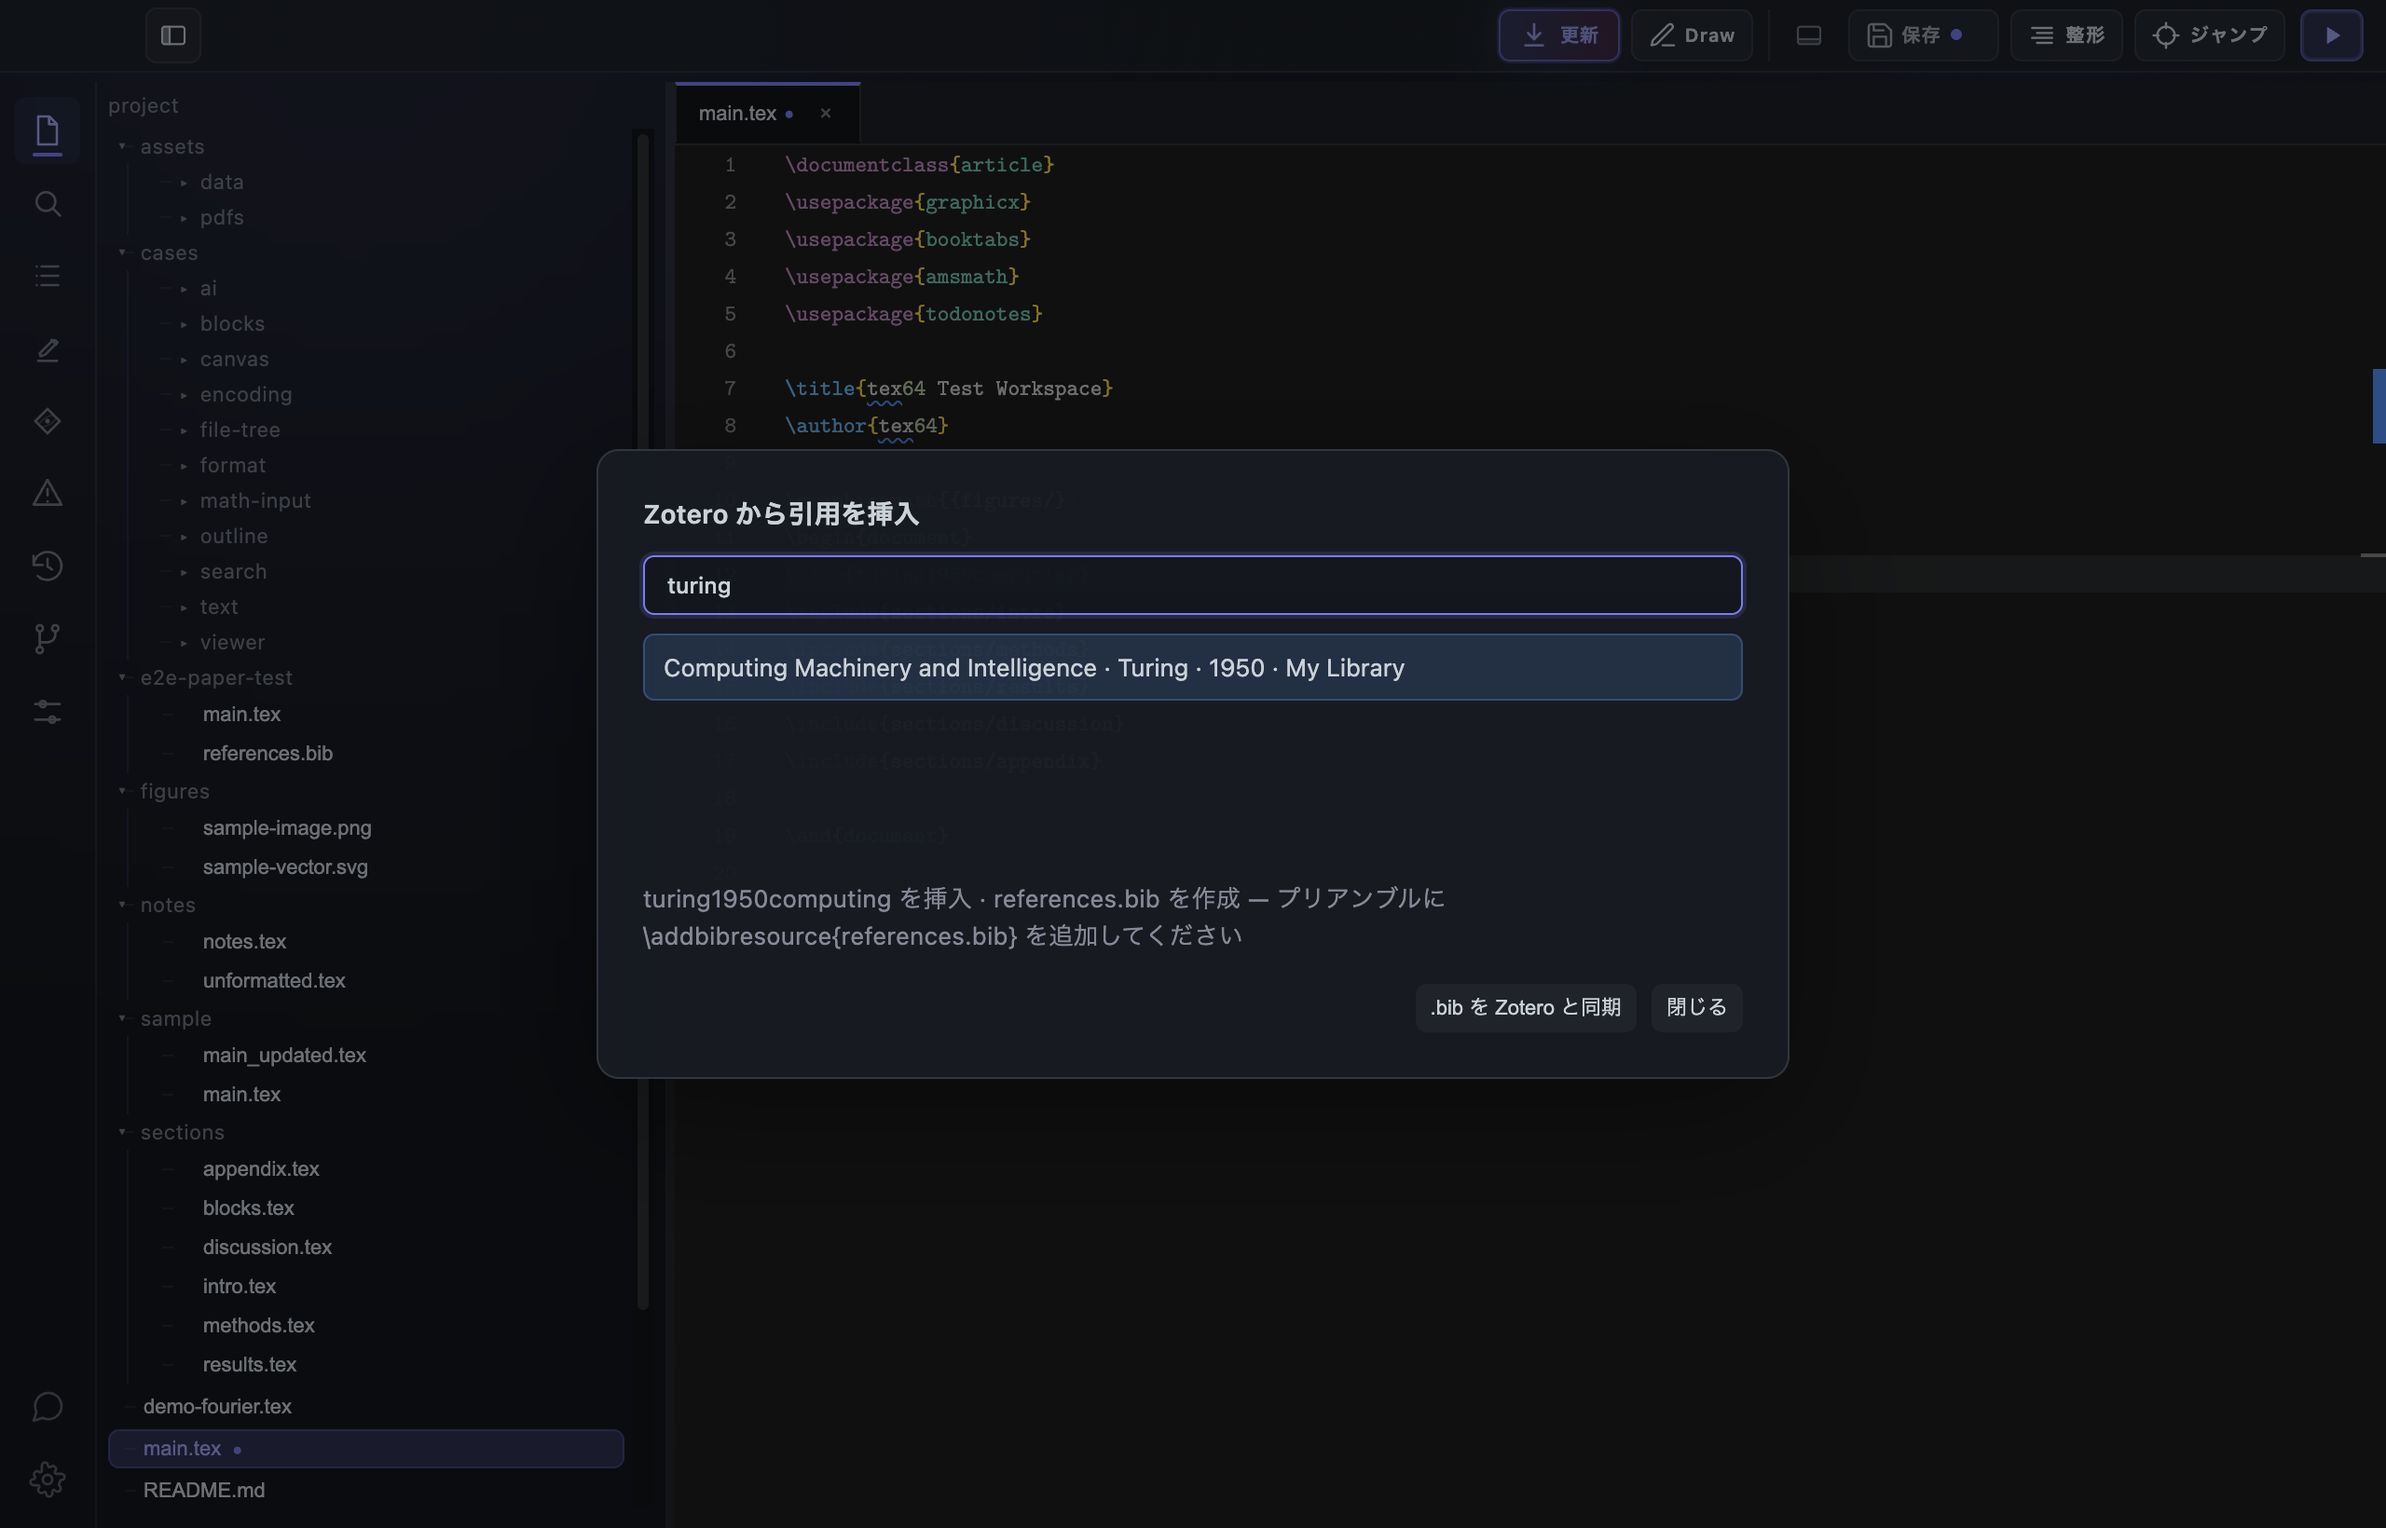
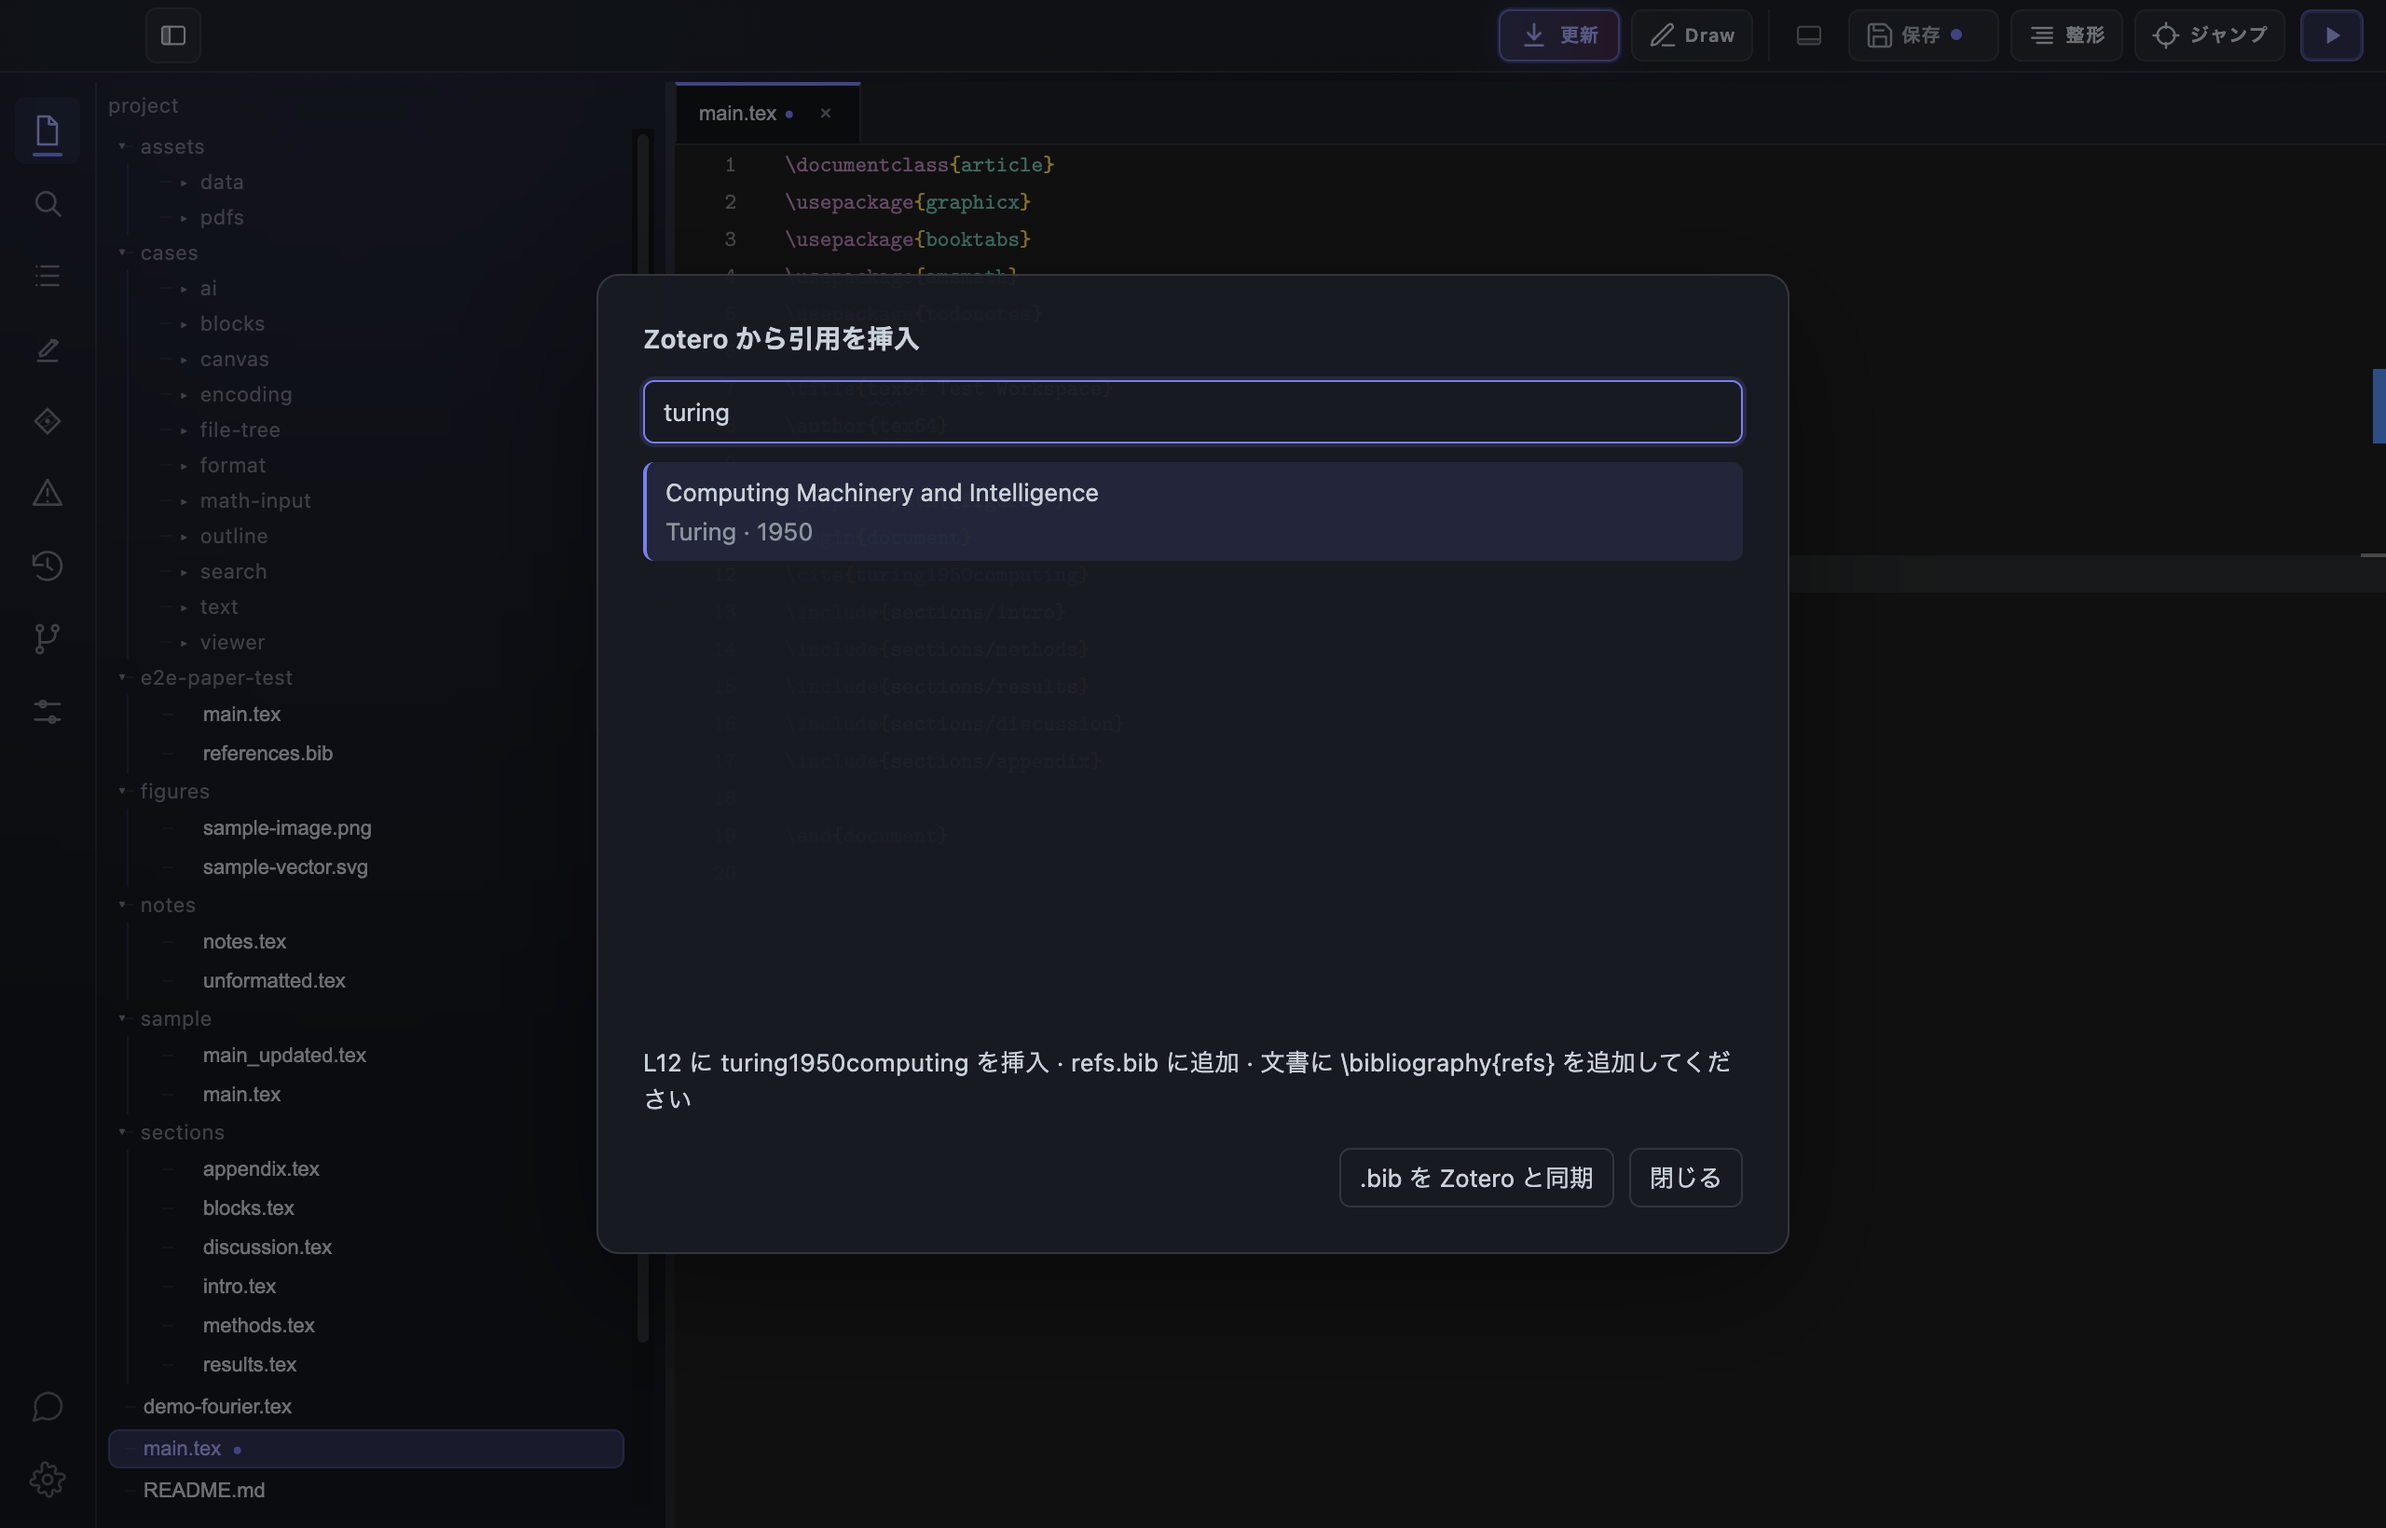
testing: zotero-20261031 を r1 反映後に撮り直す（偽ローカル API は citationKey を返さない）

diff --git a/testing/zotero-20261031/README.md b/testing/zotero-20261031/README.md
@@ -18,16 +18,17 @@ RUN_DIR=/tmp/zotero-run SHOTS_DIR=$PWD/testing/zotero-20261031/shots node testin
 
 手で触るときは `node testing/zotero-20261031/mock-zotero.cjs` を立てたまま `npx electron .` で開く。
 
-## 手順と結果（2026-10-31）
+## 手順と結果（2026-10-31、評価 r1 反映後）
 
 | # | 操作 | 結果 |
 | --- | --- | --- |
-| 1 | BBT あり。空行で右クリック →「Zotero から引用を挿入…」→ `turing` → Enter | `\cite{turing1950computing}` が入り、`main.tex` に `\bibliography` がないので `references.bib` を新規作成。ダイアログの 1 行に `\addbibresource{references.bib}` の追加を促す |
-| 2 | Settings → Zotero でライブラリを「Lab Group」に | 状態行が `Better BibTeX · Lab Group` |
-| 3 | `\cite{turing…}` の中にカーソルを置いて `attention` → Enter | `\cite{turing1950computing,vaswani2017attention}`（`,key` 追記） |
-| 4 | mock 側で Vaswani の題名を変えて「.bib を Zotero と同期」 | `references.bib: 更新 1 · 変更なし 1` |
-| 5 | BBT を閉じてローカル API のみ。Settings でグループを選び `hinton` を挿入 | `この PC の Zotero · Lab Group`。エントリの直前に `% zotero: groups:4242/HINTON2006` が付く |
-| 6 | Hinton を変えて同期 | `更新 1 · 変更なし 0 · Zotero 以外 2`（BBT 時代の 2 件は注記がないので対象外） |
-| 7 | 両方閉じる | `接続できません — Better BibTeX: 未起動 · ローカル API: Zotero の設定で無効 · Web API: API キー未設定` |
+| 1 | BBT あり。空行で右クリック →「Zotero から引用を挿入…」→ `turing` → Enter | `\cite{turing1950computing}`。`main.tex` に `\bibliography` は無いが直下の `refs.bib` に追記し、状態行で `\bibliography{refs}` の追加を促す（`references.bib` は作らない） |
+| 2 | Settings → Zotero でライブラリを「Lab Group」に | 状態行が `Better BibTeX · Lab Group — Better BibTeX: 接続中 · …` |
+| 3 | `\cite{turing…}` の中にカーソルを置いて `attention` → Enter | `\cite{turing1950computing,vaswani2017attention}`（`,key` 追記）。エントリには `% zotero: bbt:7/VASWANI17` |
+| 4 | mock 側で Vaswani の題名を変えて「.bib を Zotero と同期」 | `refs.bib: 更新 1 · 変更なし 1 · 照合できず 3`（3 件は手書きの既存エントリ） |
+| 5 | BBT を閉じてローカル API のみ | ライブラリ選択は名前で引き継がれ `この PC の Zotero · Lab Group`。`attention` を再挿入しても同じ item key を見て `既存`、キーも同じ |
+| 6 | `hinton` を挿入 | ローカル API に citekey が無いので BBT 既定形で `hinton2006fast` を生成。`% zotero: groups:4242/HINTON2006` |
+| 7 | 同期 | BBT 時代の `bbt:…` 注記もライブラリを総当たりして照合。`更新 2 · 変更なし 1 · 照合できず 3` |
+| 8 | 両方閉じる | ダイアログは `Zotero を起動するか、設定 → Zotero で API キーを入れてください。` の 1 文。経路ごとの内訳は Settings のみ |
 
 スクリーンショットは `shots/00-context-menu.png` 〜 `10-settings-unreachable.png`。
